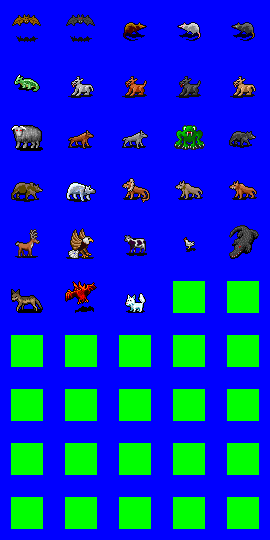
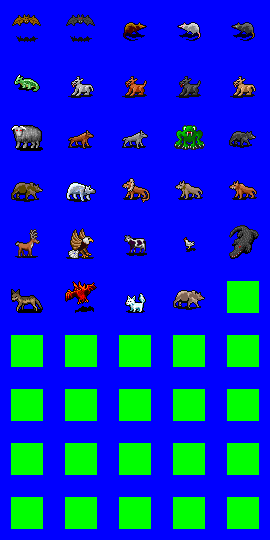
Added some more monsters

Changed region(s): [[0.6222, 0.5037, 0.7704, 0.5926], [0.4741, 0.5333, 0.5333, 0.563]]

diff --git a/monsters/animals.py b/monsters/animals.py
@@ -120,7 +120,7 @@ class WoodBeetle( base.Monster ):
     statline = { stats.STRENGTH: 10, stats.TOUGHNESS: 14, stats.REFLEXES: 8, \
         stats.INTELLIGENCE: 1, stats.PIETY: 1, stats.CHARISMA: 1 }
     SPRITENAME = "monster_bugs.png"
-    FRAME = 11
+    FRAME = 10
     TEMPLATES = (stats.BUG,)
     MOVE_POINTS = 8
     VOICE = None
@@ -245,6 +245,48 @@ class SwampDragonfly( base.Monster ):
     def init_monster( self ):
         self.levels.append( base.Beast( 2, self ) )
 
+class BoringBeetle( base.Monster ):
+    name = "Boring Beetle"
+    statline = { stats.STRENGTH: 10, stats.TOUGHNESS: 14, stats.REFLEXES: 8, \
+        stats.INTELLIGENCE: 1, stats.PIETY: 1, stats.CHARISMA: 1 }
+    SPRITENAME = "monster_bugs.png"
+    FRAME = 11
+    TEMPLATES = (stats.BUG,)
+    MOVE_POINTS = 8
+    VOICE = None
+    GP_VALUE = 0
+    HABITAT = ( context.HAB_CAVE, context.SET_EVERY,
+     context.DES_EARTH,
+     context.MTY_BEAST, context.MTY_CREATURE, context.GEN_NATURE )
+    ENC_LEVEL = 3
+
+    ATTACK = items.Attack( (1,4,0), element = stats.RESIST_PIERCING,
+     extra_effect=effects.HealthDamage( (1,4,0), stat_bonus=None, element=stats.RESIST_ACID, anim=animobs.GreenExplosion ))
+
+    def init_monster( self ):
+        self.levels.append( base.Beast( 3, self ) )
+
+class WaterBeetle( base.Monster ):
+    name = "Water Beetle"
+    statline = { stats.STRENGTH: 10, stats.TOUGHNESS: 14, stats.REFLEXES: 8, \
+        stats.INTELLIGENCE: 1, stats.PIETY: 1, stats.CHARISMA: 1 }
+    SPRITENAME = "monster_bugs.png"
+    FRAME = 12
+    TEMPLATES = (stats.BUG,stats.WATER)
+    MOVE_POINTS = 8
+    VOICE = None
+    GP_VALUE = 0
+    HABITAT = ( context.SET_EVERY,
+     context.DES_WATER,
+     context.MTY_BEAST, context.MTY_CREATURE, context.GEN_NATURE )
+    ENC_LEVEL = 3
+
+    ATTACK = items.Attack( (1,4,0), element = stats.RESIST_PIERCING,
+     extra_effect=effects.HealthDamage( (1,4,0), stat_bonus=None, element=stats.RESIST_POISON, anim=animobs.GreenBoom ))
+
+    def init_monster( self ):
+        self.levels.append( base.Beast( 3, self ) )
+
 
 #  *******************************
 #  ***   ENCOUNTER  LEVEL  4   ***
@@ -252,7 +294,7 @@ class SwampDragonfly( base.Monster ):
 
 class BlackBear( base.Monster ):
     name = "Black Bear"
-    statline = { stats.STRENGTH: 18, stats.TOUGHNESS: 16, stats.REFLEXES: 10, \
+    statline = { stats.STRENGTH: 15, stats.TOUGHNESS: 16, stats.REFLEXES: 10, \
         stats.INTELLIGENCE: 3, stats.PIETY: 8, stats.CHARISMA: 6 }
     SPRITENAME = "monster_animals.png"
     FRAME = 14
@@ -269,6 +311,27 @@ class BlackBear( base.Monster ):
     def init_monster( self ):
         self.levels.append( base.Beast( 4, self ) )
 
+class GiantLizard( base.Monster ):
+    name = "Giant Lizard"
+    statline = { stats.STRENGTH: 15, stats.TOUGHNESS: 13, stats.REFLEXES: 9, \
+        stats.INTELLIGENCE: 1, stats.PIETY: 9, stats.CHARISMA: 1 }
+    SPRITENAME = "monster_default.png"
+    FRAME = 48
+    TEMPLATES = (stats.REPTILE,)
+    MOVE_POINTS = 10
+    VOICE = None
+    GP_VALUE = 0
+    HABITAT = ( context.HAB_CAVE, context.SET_EVERY,
+     context.MTY_BEAST, context.MTY_CREATURE,
+     context.GEN_NATURE )
+    ENC_LEVEL = 4
+
+    ATTACK = items.Attack( (1,10,0), element = stats.RESIST_PIERCING )
+
+    def init_monster( self ):
+        self.levels.append( base.Beast( 4, self ) )
+
+
 class FireBat( base.Monster ):
     name = "Fire Bat"
     statline = { stats.STRENGTH: 10, stats.TOUGHNESS: 10, stats.REFLEXES: 14, \
@@ -283,7 +346,7 @@ class FireBat( base.Monster ):
      context.DES_LUNAR, context.MTY_BEAST, context.MTY_CREATURE )
     ENC_LEVEL = 4
 
-    ATTACK = items.Attack( (1,6,0), element = stats.RESIST_PIERCING )
+    ATTACK = items.Attack( (2,4,0), element = stats.RESIST_PIERCING )
 
     TECHNIQUES = ( invocations.MPInvocation( "Fire Breath",
       effects.OpposedRoll( att_skill=stats.PHYSICAL_ATTACK, att_stat=stats.REFLEXES, att_modifier=10, def_stat=stats.REFLEXES, on_success = (
@@ -295,6 +358,35 @@ class FireBat( base.Monster ):
 
     def init_monster( self ):
         self.levels.append( base.Beast( 2, self ) )
+
+class IceFox( base.Monster ):
+    name = "Ice Fox"
+    statline = { stats.STRENGTH: 9, stats.TOUGHNESS: 11, stats.REFLEXES: 13, \
+        stats.INTELLIGENCE: 3, stats.PIETY: 9, stats.CHARISMA: 15 }
+    SPRITENAME = "monster_animals.png"
+    FRAME = 27
+    TEMPLATES = (stats.ICE,)
+    MOVE_POINTS = 10
+    VOICE = None
+    GP_VALUE = 0
+    HABITAT = ( context.HAB_EVERY, context.SET_EVERY,
+     context.DES_ICE,
+     context.MTY_BEAST, context.MTY_CREATURE,
+     context.GEN_NATURE )
+    ENC_LEVEL = 4
+
+    ATTACK = items.Attack( (1,6,0), element = stats.RESIST_PIERCING )
+
+    TECHNIQUES = ( invocations.MPInvocation( "Frost Breath",
+        effects.OpposedRoll( att_skill=stats.PHYSICAL_ATTACK, att_stat=stats.REFLEXES, def_stat=stats.REFLEXES, on_success = (
+            effects.HealthDamage( (1,6,0), stat_bonus=stats.TOUGHNESS, element=stats.RESIST_COLD, anim=animobs.BlueCloud )
+        ,), on_failure = (
+            effects.HealthDamage( (1,3,0), stat_bonus=None, element=stats.RESIST_COLD, anim=animobs.BlueCloud )
+        ,) ), com_tar=targetarea.Cone(reach=4), ai_tar=invocations.vs_enemy, mp_cost=2
+      ), )
+
+    def init_monster( self ):
+        self.levels.append( base.Beast( 3, self ) )
 
 
 #  *******************************
@@ -320,6 +412,36 @@ class DireWolf( base.Monster ):
 
     def init_monster( self ):
         self.levels.append( base.Beast( 5, self ) )
+
+class LightningBug( base.Monster ):
+    name = "Lightning Bug"
+    statline = { stats.STRENGTH: 10, stats.TOUGHNESS: 13, stats.REFLEXES: 12, \
+        stats.INTELLIGENCE: 1, stats.PIETY: 12, stats.CHARISMA: 1, \
+        stats.RESIST_LIGHTNING: 150 }
+    SPRITENAME = "monster_bugs.png"
+    FRAME = 13
+    TEMPLATES = (stats.BUG,)
+    MOVE_POINTS = 14
+    VOICE = None
+    GP_VALUE = 0
+    HABITAT = ( context.HAB_FOREST, context.HAB_CAVE, context.SET_EVERY,
+     context.DES_AIR,
+     context.MTY_BEAST, context.MTY_CREATURE, context.GEN_NATURE )
+    ENC_LEVEL = 5
+
+    ATTACK = items.Attack( (1,6,0), element = stats.RESIST_PIERCING )
+
+    TECHNIQUES = ( invocations.MPInvocation( "Zap",
+      effects.OpposedRoll( att_skill=stats.PHYSICAL_ATTACK, att_stat=stats.REFLEXES, def_stat=stats.REFLEXES, on_success = (
+        effects.HealthDamage( (2,6,0), stat_bonus=stats.TOUGHNESS, element=stats.RESIST_LIGHTNING, anim=animobs.Spark )
+      ,), on_failure = (
+        effects.HealthDamage( (1,6,0), stat_bonus=None, element=stats.RESIST_LIGHTNING, anim=animobs.Spark )
+      ,) ), com_tar=targetarea.Line(reach=6), ai_tar=invocations.vs_enemy, mp_cost=3
+    ), )
+
+    def init_monster( self ):
+        self.levels.append( base.Beast( 4, self ) )
+
 
 #  *******************************
 #  ***   ENCOUNTER  LEVEL  6   ***
@@ -391,24 +513,26 @@ class GiantEagle( base.Monster ):
 #  ***   ENCOUNTER  LEVEL  8   ***
 #  *******************************
 
-class GreatStag( base.Monster ):
-    name = "Great Stag"
-    statline = { stats.STRENGTH: 14, stats.TOUGHNESS: 15, stats.REFLEXES: 17, \
-        stats.INTELLIGENCE: 3, stats.PIETY: 19, stats.CHARISMA: 16 }
+class DireYak( base.Monster ):
+    name = "Dire Yak"
+    statline = { stats.STRENGTH: 18, stats.TOUGHNESS: 14, stats.REFLEXES: 10, \
+        stats.INTELLIGENCE: 2, stats.PIETY: 12, stats.CHARISMA: 1 }
     SPRITENAME = "monster_animals.png"
-    FRAME = 20
+    FRAME = 10
     TEMPLATES = ()
-    MOVE_POINTS = 14
+    MOVE_POINTS = 10
     VOICE = None
     GP_VALUE = 0
-    HABITAT = ( context.HAB_FOREST, context.SET_EVERY, context.SET_RENFAN,
-     context.MTY_BEAST, context.MTY_CREATURE, context.GEN_NATURE )
+    HABITAT = ( context.HAB_CAVE, context.SET_EVERY,
+     context.DES_ICE,
+     context.MTY_BEAST, context.MTY_CREATURE,
+     context.GEN_NATURE )
     ENC_LEVEL = 8
 
-    ATTACK = items.Attack( (1,12,0), element = stats.RESIST_PIERCING )
+    ATTACK = items.Attack( (1,10,0), element = stats.RESIST_PIERCING )
 
     def init_monster( self ):
-        self.levels.append( base.Beast( 8, self ) )
+        self.levels.append( base.Beast( 9, self ) )
 
 class Crocodile( base.Monster ):
     name = "Crocodile"
@@ -433,6 +557,46 @@ class Crocodile( base.Monster ):
 #  ***   ENCOUNTER  LEVEL  9   ***
 #  *******************************
 
+class GreatStag( base.Monster ):
+    name = "Great Stag"
+    statline = { stats.STRENGTH: 15, stats.TOUGHNESS: 14, stats.REFLEXES: 17, \
+        stats.INTELLIGENCE: 3, stats.PIETY: 19, stats.CHARISMA: 16 }
+    SPRITENAME = "monster_animals.png"
+    FRAME = 20
+    TEMPLATES = ()
+    MOVE_POINTS = 14
+    VOICE = None
+    GP_VALUE = 0
+    HABITAT = ( context.HAB_FOREST, context.SET_EVERY, context.SET_RENFAN,
+     context.MTY_BEAST, context.MTY_CREATURE, context.GEN_NATURE )
+    ENC_LEVEL = 9
+
+    ATTACK = items.Attack( (2,8,0), element = stats.RESIST_PIERCING )
+
+    def init_monster( self ):
+        self.levels.append( base.Beast( 9, self ) )
+
+class PolarBear( base.Monster ):
+    name = "Polar Bear"
+    statline = { stats.STRENGTH: 20, stats.TOUGHNESS: 18, stats.REFLEXES: 12, \
+        stats.INTELLIGENCE: 3, stats.PIETY: 10, stats.CHARISMA: 6 }
+    SPRITENAME = "monster_animals.png"
+    FRAME = 16
+    TEMPLATES = ()
+    MOVE_POINTS = 10
+    VOICE = None
+    GP_VALUE = 0
+    HABITAT = ( context.SET_EVERY, context.SET_RENFAN,
+     context.DES_ICE,
+     context.MTY_BEAST, context.MTY_CREATURE,
+     context.GEN_NATURE )
+    ENC_LEVEL = 9
+
+    ATTACK = items.Attack( (2,6,0), element = stats.RESIST_SLASHING )
+
+    def init_monster( self ):
+        self.levels.append( base.Beast( 9, self ) )
+
 
 #  ********************************
 #  ***   ENCOUNTER  LEVEL  10   ***
@@ -445,6 +609,29 @@ class Crocodile( base.Monster ):
 #  ********************************
 #  ***   ENCOUNTER  LEVEL  12   ***
 #  ********************************
+
+class CaveBear( base.Monster ):
+    name = "Cave Bear"
+    statline = { stats.STRENGTH: 20, stats.TOUGHNESS: 20, stats.REFLEXES: 12, \
+        stats.INTELLIGENCE: 1, stats.PIETY: 12, stats.CHARISMA: 6, \
+        stats.RESIST_SLASHING: 25, stats.RESIST_PIERCING: 25, stats.RESIST_CRUSHING: 25 }
+    SPRITENAME = "monster_animals.png"
+    FRAME = 28
+    TEMPLATES = ()
+    MOVE_POINTS = 10
+    VOICE = None
+    GP_VALUE = 0
+    HABITAT = ( context.HAB_CAVE, context.SET_EVERY,
+     context.DES_EARTH,
+     context.MTY_BEAST, context.MTY_CREATURE,
+     context.GEN_NATURE )
+    ENC_LEVEL = 12
+
+    ATTACK = items.Attack( (3,6,0), element = stats.RESIST_SLASHING )
+
+    def init_monster( self ):
+        self.levels.append( base.Beast( 9, self ) )
+
 
 #  ********************************
 #  ***   ENCOUNTER  LEVEL  13   ***

diff --git a/stats.py b/stats.py
@@ -119,8 +119,9 @@ CONSTRUCT = SingTemp( "CONSTRUCT", { RESIST_CRUSHING: 25, RESIST_PIERCING: 25, \
     RESIST_SLASHING: 25, RESIST_WATER: -100, RESIST_ATOMIC: -300, \
     RESIST_POISON: 155, AWARENESS: -10 } )
 PLANT = SingTemp( "PLANT", { RESIST_FIRE: -100, RESIST_SOLAR: 100, RESIST_LUNAR: -100, \
-    RESIST_WATER: 250, AWARENESS: -10 })
+    RESIST_WATER: 250, AWARENESS: -10, RESIST_CRUSHING: 50, RESIST_PIERCING: 50 })
 ELEMENTAL = SingTemp( "ELEMENTAL", { NATURAL_DEFENSE: 5, MAGIC_DEFENSE: -5, \
+    RESIST_CRUSHING: 25, RESIST_PIERCING: 25, RESIST_SLASHING: 25, \
     RESIST_ATOMIC: -100, RESIST_POISON: 155 })
 DEMON = SingTemp( "DEMON", { MAGIC_DEFENSE: 5, RESIST_FIRE: 75, RESIST_LUNAR: 75, \
     RESIST_SOLAR: -100, RESIST_POISON: 100 })
@@ -136,15 +137,15 @@ FIRE = SingTemp( "FIRE", { PHYSICAL_ATTACK: 5, NATURAL_DEFENSE: -5, \
     RESIST_WATER: -100, RESIST_ATOMIC: 50 })
 WATER = SingTemp( "WATER", { MAGIC_ATTACK: -5, MAGIC_DEFENSE: 5, \
     RESIST_FIRE: 50, RESIST_COLD: 50, \
-    RESIST_LIGHTNING: -100, RESIST_ACID: -100, RESIST_WATER: 50 })
+    RESIST_LIGHTNING: -100, RESIST_ACID: -50, RESIST_WATER: 255 })
 EARTH = SingTemp( "EARTH", { PHYSICAL_ATTACK: -5, NATURAL_DEFENSE: 5, \
-    RESIST_CRUSHING: -50, RESIST_LIGHTNING: 100, RESIST_ACID: 50, \
-    RESIST_WIND: -100, RESIST_WATER: -100 })
+    RESIST_CRUSHING: 50, RESIST_SLASHING: 50, RESIST_LIGHTNING: 100, \
+    RESIST_ACID: 50, RESIST_WIND: -100, RESIST_WATER: -100 })
 AIR = SingTemp( "AIR", { MAGIC_ATTACK: 5, MAGIC_DEFENSE: -5, \
     RESIST_SLASHING: -50, RESIST_FIRE: -100, RESIST_ACID: 50, \
     RESIST_WIND: 50 })
-ICE = SingTemp( "ICE", { RESIST_PIERCING: -100, RESIST_FIRE: -100, \
-    RESIST_COLD: 100, RESIST_WIND: 50, RESIST_WATER: 50 })
+ICE = SingTemp( "ICE", { RESIST_PIERCING: -50, RESIST_SLASHING: 50, \
+    RESIST_FIRE: -100, RESIST_COLD: 100, RESIST_WIND: 50, RESIST_WATER: 50 })
 
 
 

diff --git a/context.py b/context.py
@@ -39,7 +39,7 @@ SET_EVERY, SET_RENFAN = range( 100,102 )
 
 # Description Tags- Linked to map sprite set and maybe map generator
 DES_EARTH, DES_AIR, DES_WATER, DES_FIRE, DES_SOLAR, DES_LUNAR, \
-  DES_CIVILIZED = range(200,207)
+  DES_ICE, DES_CIVILIZED = range(200,208)
 
 # Type Tags
 #  MTY_UNDEAD can be summoned by Necromancer spells

diff --git a/campaign.py b/campaign.py
@@ -359,7 +359,7 @@ if __name__=='__main__':
 
     myroom = pygame.Rect(50,12,10,10)
     myteam = teams.Team(default_reaction=-999, home=myroom)
-    mymon = monsters.animals.SwampDragonfly( team=myteam )
+    mymon = monsters.animals.IceFox( team=myteam )
     mymon.pos = (55,17)
     myscene.contents.append( mymon )
 
